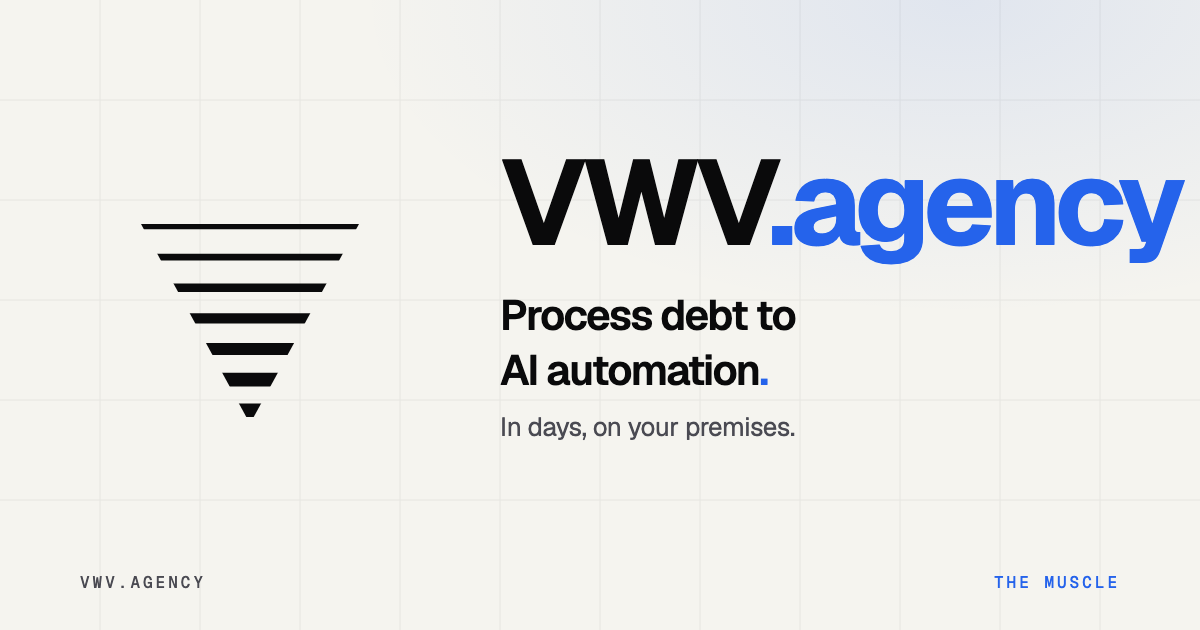
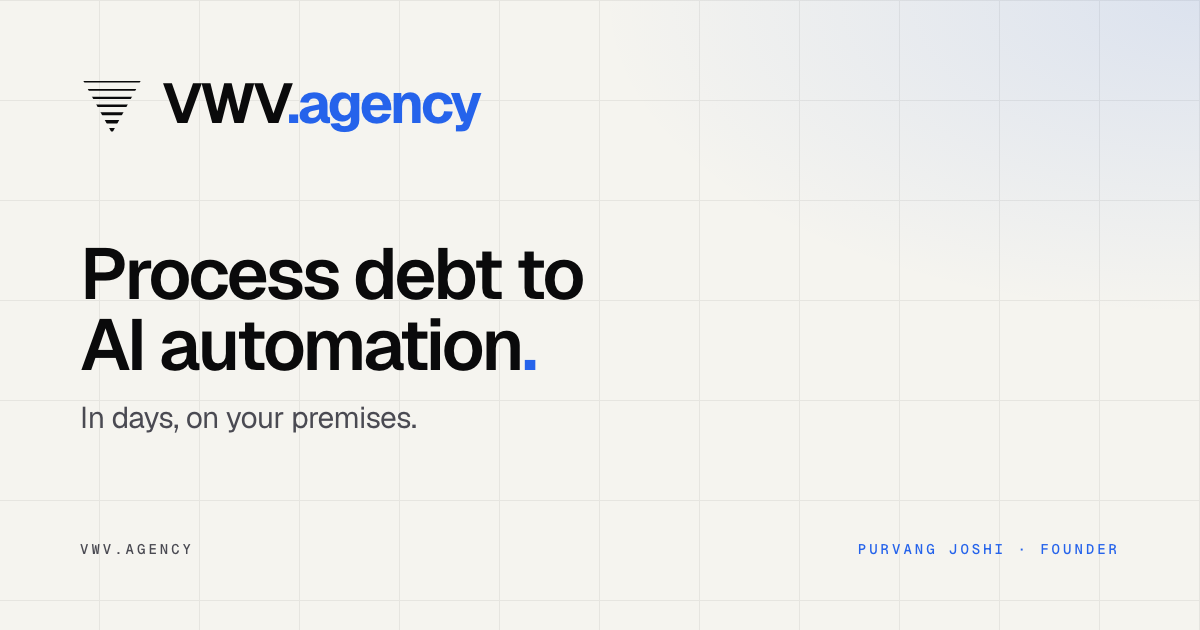
og + copy: tight OG alignment, drop Mind/Muscle, drop stale Receipts link
OG image
  Re-rendered via HTML+CSS flexbox at 1200x630. Brand row top, headline
  middle, footer bottom, all on the same 80px gutter. V mark + wordmark
  share a baseline. 'THE MUSCLE' bottom-right label removed and
  replaced with 'Purvang Joshi · Founder'.

Public copy
  Per the brand voice guidelines, 'The Mind' and 'The Muscle' are
  internal shorthand only. Stripped from:
    - Footer brand description ('The Muscle. Fixed-scope…' ->
      'Fixed-scope sprints that ship AI automation against the
      workflows your team actually runs.')
    - Footer cross-link card ('The Mind. Long-form thinking…' ->
      'Long-form essays from Purvang on the end of the SaaS-template
      era, process debt, and AI-native operations.')
    - Footer eyebrows: 'The other surface' -> 'Read the thinking'
    - <meta name="description"> removed 'The Muscle of VWV.' prefix.

Footer site map
  Removed the dead #receipts link (the Receipts section was deleted in
  a prior commit). Added the live #sectors link in its place.

diff --git a/src/components/Footer.tsx b/src/components/Footer.tsx
@@ -15,8 +15,8 @@ export function Footer() {
               </span>
             </div>
             <p className="mt-6 max-w-md text-[color:var(--color-text-secondary)] text-pretty">
-              The Muscle. Fixed-scope, fixed-price sprints that ship measurable
-              workflow change in weeks, not quarters.
+              Fixed-scope sprints that ship AI automation against the
+              workflows your team actually runs. On your premises. In days.
             </p>
           </div>
 
@@ -24,17 +24,17 @@ export function Footer() {
           <div className="lg:col-span-3">
             <p className="eyebrow mb-4">Site</p>
             <ul className="space-y-2 text-sm">
+              <li><a href="#sectors" className="text-[color:var(--color-text-secondary)] hover:text-[color:var(--color-accent)] transition-colors">Sectors</a></li>
               <li><a href="#sprints" className="text-[color:var(--color-text-secondary)] hover:text-[color:var(--color-accent)] transition-colors">Sprints</a></li>
               <li><a href="#process" className="text-[color:var(--color-text-secondary)] hover:text-[color:var(--color-accent)] transition-colors">Process</a></li>
-              <li><a href="#receipts" className="text-[color:var(--color-text-secondary)] hover:text-[color:var(--color-accent)] transition-colors">Receipts</a></li>
               <li><a href="#faq" className="text-[color:var(--color-text-secondary)] hover:text-[color:var(--color-accent)] transition-colors">FAQ</a></li>
               <li><a href="#book" className="text-[color:var(--color-text-secondary)] hover:text-[color:var(--color-accent)] transition-colors">Book a call</a></li>
             </ul>
           </div>
 
-          {/* The Mind */}
+          {/* Cross-link to the dispatches */}
           <div className="lg:col-span-4">
-            <p className="eyebrow mb-4">The other surface</p>
+            <p className="eyebrow mb-4">Read the thinking</p>
             <a
               href="https://valuewithvelocity.com"
               className="group block rounded-lg border border-[color:var(--color-border-subtle)] hover:border-[color:var(--color-accent)] p-5 transition-colors bg-[color:var(--color-canvas-raised)]"
@@ -43,8 +43,7 @@ export function Footer() {
                 valuewithvelocity.com
               </p>
               <p className="mt-1 text-sm text-[color:var(--color-text-secondary)]">
-                The Mind. Long-form thinking on outcome velocity and AI-native
-                operations.
+                Long-form essays from Purvang on the end of the SaaS-template era, process debt, and AI-native operations.
               </p>
               <span className="mt-3 inline-flex items-center gap-1.5 text-xs font-medium text-[color:var(--color-accent)]">
                 Read dispatches

diff --git a/index.html b/index.html
@@ -8,7 +8,7 @@
     <meta name="theme-color" content="#0A0A0B" media="(prefers-color-scheme: dark)" />
 
     <title>VWV.agency · Process debt to AI automation. In days, on your premises.</title>
-    <meta name="description" content="The Muscle of VWV. A cross-functional team shows up on your premises, maps the workflow, and ships the AI automation that retires the process debt. KPI dashboard handed over at close-out." />
+    <meta name="description" content="A cross-functional team shows up on your premises, maps the workflow, and ships the AI automation that retires the process debt. KPI dashboard handed over at close-out. By VWV." />
 
     <!-- Open Graph -->
     <meta property="og:type" content="website" />
